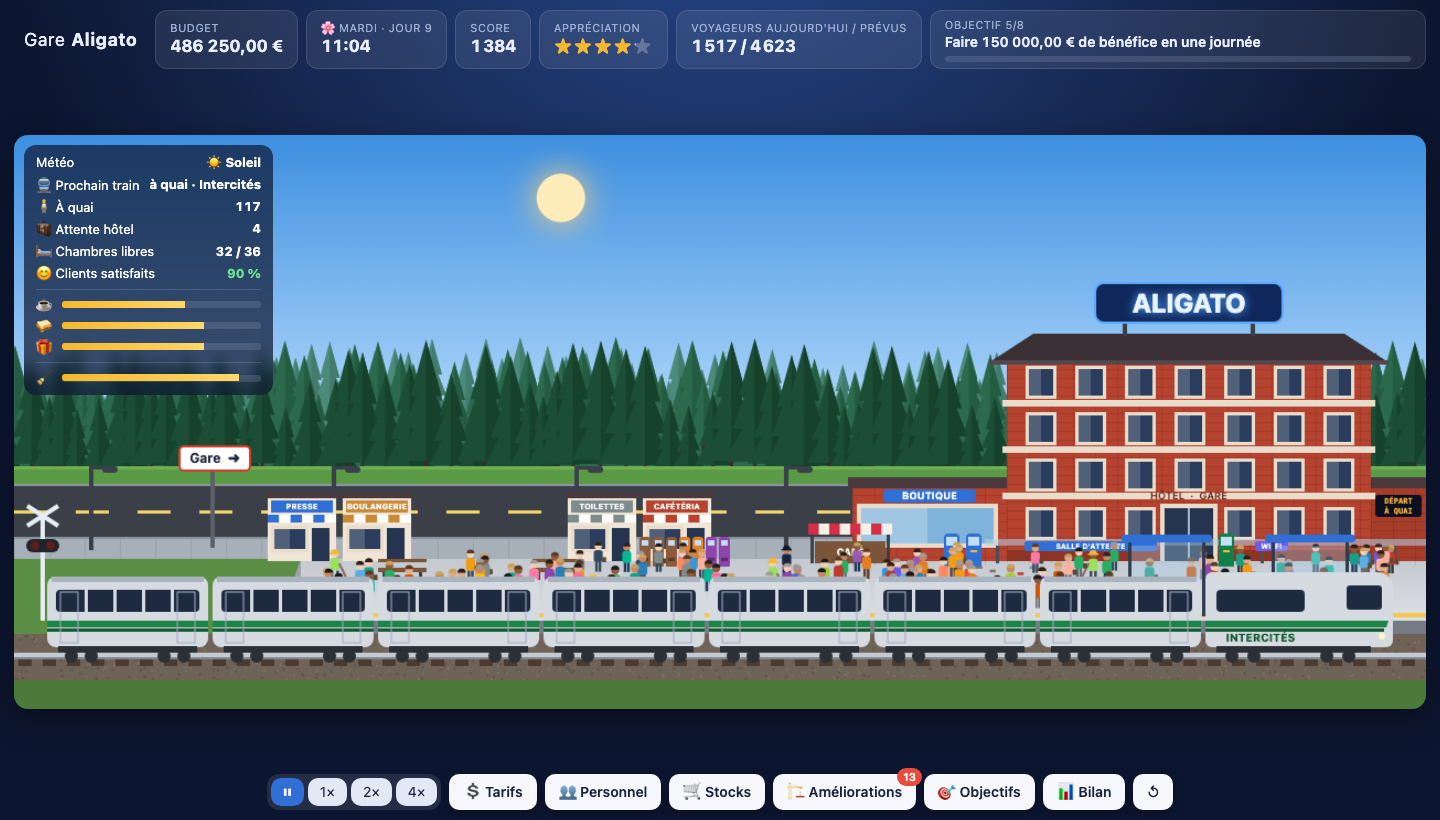
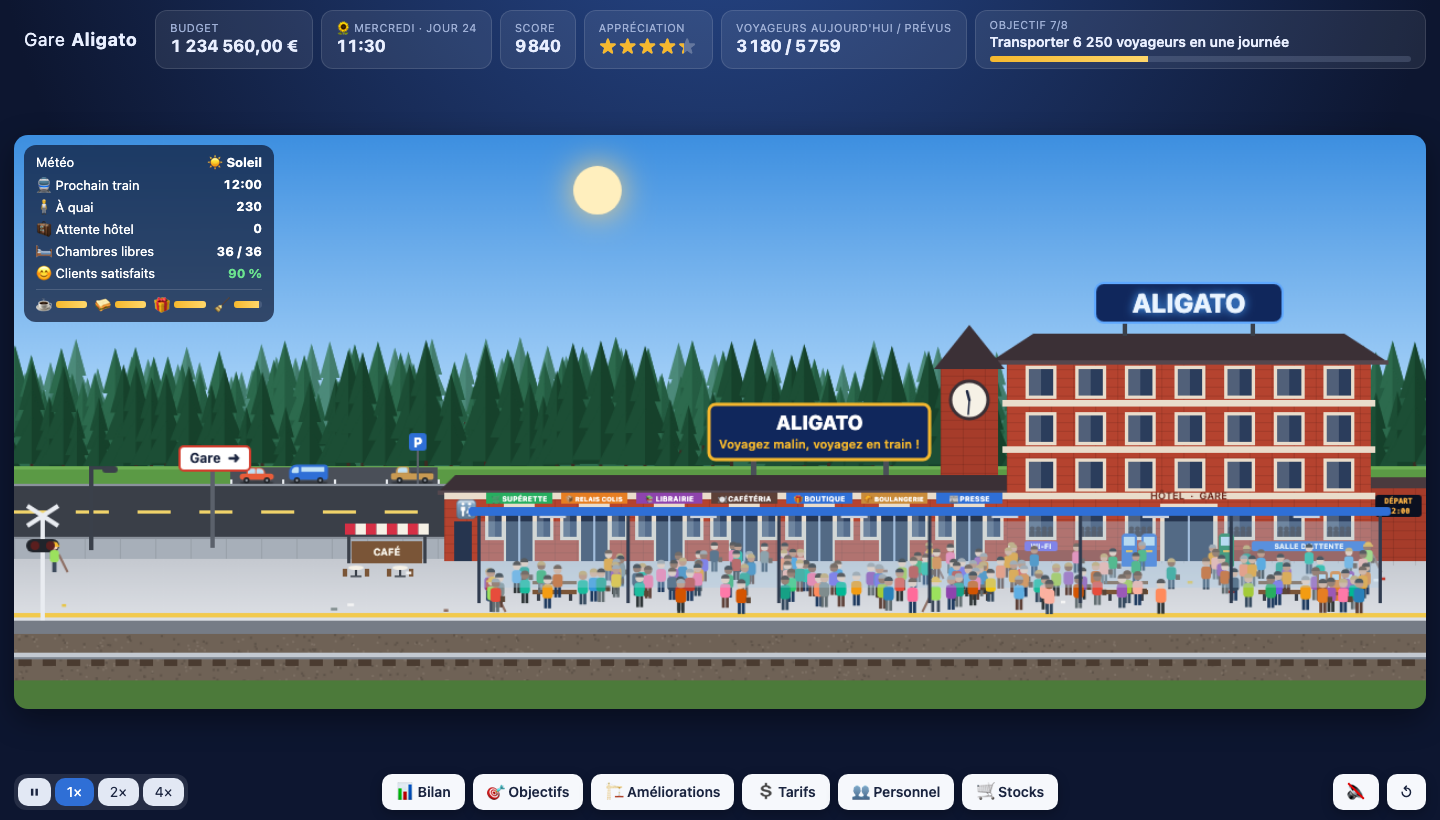
docs: refresh the readme screenshot

diff --git a/README.md b/README.md
@@ -5,7 +5,7 @@ Jeu de gestion d'une gare et de son hôtel, en HTML, CSS et JavaScript, sans dé
 Ce jeu rend hommage à *Aligato*, le jeu de gestion ferroviaire de **René Paradis**, dont il reprend l'esprit et la
 mécanique. Il propose un style graphique moderne, plus détaillé et animé, à la place du pixel art d'origine.
 
-![La gare Aligato en milieu de partie : Intercités à quai, hôtel, commerces et encart d'état de la gare](docs/screenshot.png)
+![La gare Aligato en milieu de partie : galerie de commerces, tour de l'horloge, panneau publicitaire, hôtel, abri voyageurs et encart d'état de la gare](docs/screenshot.png)
 
 ## Lancer le jeu
 
